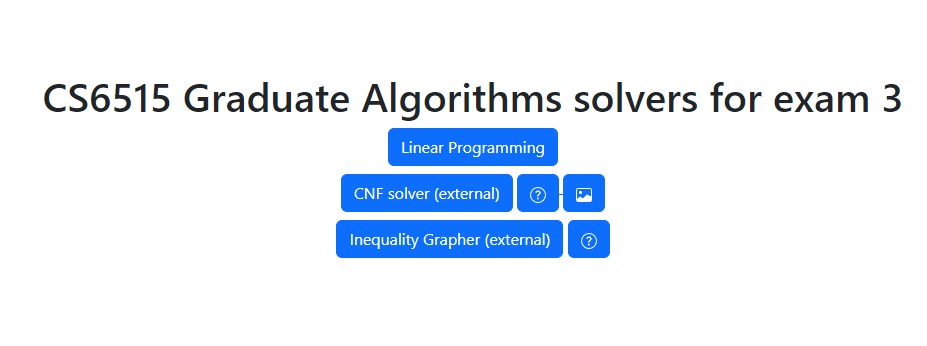
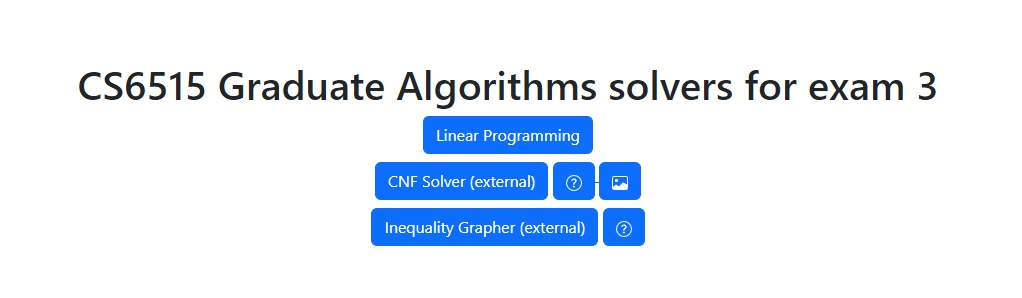
capitalized a word

Changed region(s): [[0.0302, 0.2416, 0.9968, 0.8456]]

diff --git a/public/pages/exam3/exam3.html b/public/pages/exam3/exam3.html
@@ -11,7 +11,7 @@
 		<h1>CS6515 Graduate Algorithms solvers for exam 3</h1>
         <a href="/exam3/lp"><button class="btn btn-primary">Linear Programming</button></a>
 		<div>
-			<a href="https://www.wolframalpha.com/input?i=CNF" target="_blank"><button class="btn btn-primary mt-2">CNF solver (external)</button></a>
+			<a href="https://www.wolframalpha.com/input?i=CNF" target="_blank"><button class="btn btn-primary mt-2">CNF Solver (external)</button></a>
 			<a href="https://www.wolframalpha.com/input?i=CNF+%28a+%26%26+b+%26%26+c%29+%7C%7C+%28%7Ea+%26%26+%7Eb+%26%26+%7Ec%29" target="_blank"><button class="btn btn-primary mt-2">
 				<svg xmlns="http://www.w3.org/2000/svg" width="16" height="16" fill="currentColor" class="bi bi-question-circle" viewBox="0 0 16 16">
 				  <path d="M8 15A7 7 0 1 1 8 1a7 7 0 0 1 0 14zm0 1A8 8 0 1 0 8 0a8 8 0 0 0 0 16z"/>
